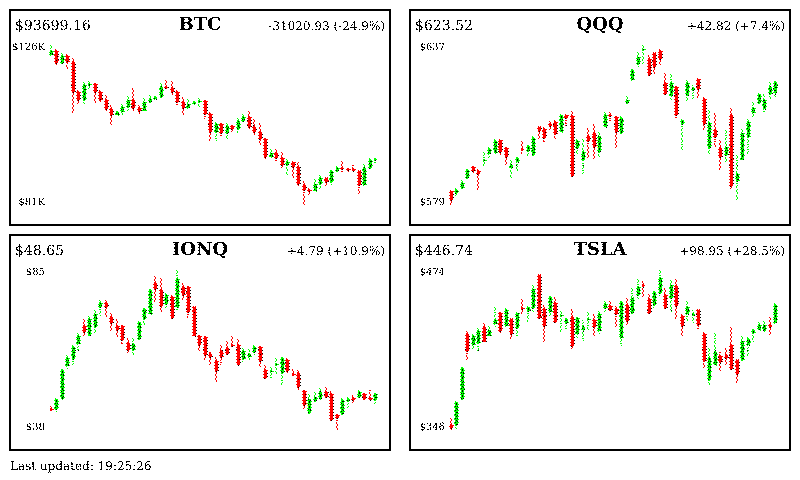
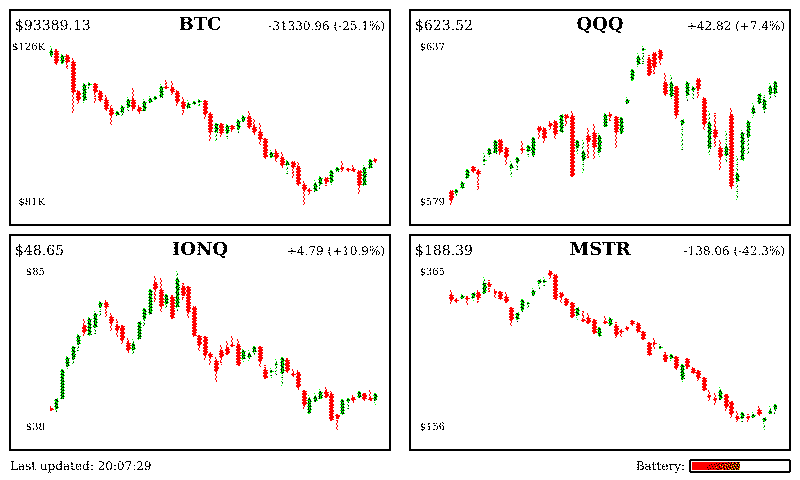
Cleaned up battery on stocks page

diff --git a/server/src/stocks.rs b/server/src/stocks.rs
@@ -188,47 +188,46 @@ pub fn generate_stocks_svg(stocks: &StocksData, battery_pct: Option<u8>) -> Stri
     ));
 
     // Battery bar (if provided)
-    if let Some(pct) = battery_pct {
-        let battery_bar_width = 100;
-        let battery_bar_height = 12;
-        let battery_x = width - 110;
-        let battery_y = footer_y - 10;
-        let battery_inset = 2;
-        let battery_fill_width = (battery_bar_width - battery_inset * 2) * pct as i32 / 100;
+    let pct = battery_pct.unwrap_or(50);
+    let battery_bar_width = 100;
+    let battery_bar_height = 12;
+    let battery_x = width - 110;
+    let battery_y = footer_y - 10;
+    let battery_inset = 2;
+    let battery_fill_width = (battery_bar_width - battery_inset * 2) * pct as i32 / 100;
 
-        // Label
-        svg.push_str(&format!(
-            r#"<text x="{}" y="{}" text-anchor="end" font-size="12" fill="black">Battery:</text>"#,
-            battery_x - 5,
-            footer_y
-        ));
+    // Label
+    svg.push_str(&format!(
+        r#"<text x="{}" y="{}" text-anchor="end" font-size="12" fill="black">Battery:</text>"#,
+        battery_x - 5,
+        footer_y
+    ));
 
-        // Background (container) rectangle
-        svg.push_str(&format!(
+    // Background (container) rectangle
+    svg.push_str(&format!(
             r#"<rect x="{}" y="{}" width="{}" height="{}" fill="white" stroke="black" stroke-width="2" rx="2"/>"#,
             battery_x, battery_y, battery_bar_width, battery_bar_height
         ));
 
-        // ClipPath for battery bar
-        svg.push_str(r#"<clipPath id="batteryClip">"#);
-        svg.push_str(&format!(
-            r#"<rect x="{}" y="{}" width="{}" height="{}" rx="1"/>"#,
-            battery_x + battery_inset,
-            battery_y + battery_inset,
-            battery_fill_width,
-            battery_bar_height - battery_inset * 2
-        ));
-        svg.push_str(r#"</clipPath>"#);
+    // ClipPath for battery bar
+    svg.push_str(r#"<clipPath id="batteryClip">"#);
+    svg.push_str(&format!(
+        r#"<rect x="{}" y="{}" width="{}" height="{}" rx="1"/>"#,
+        battery_x + battery_inset,
+        battery_y + battery_inset,
+        battery_fill_width,
+        battery_bar_height - battery_inset * 2
+    ));
+    svg.push_str(r#"</clipPath>"#);
 
-        // Full-width gradient rect, clipped
-        svg.push_str(&format!(
+    // Full-width gradient rect, clipped
+    svg.push_str(&format!(
             r#"<rect x="{}" y="{}" width="{}" height="{}" fill="url(#batteryGradient)" clip-path="url(#batteryClip)" rx="1"/>"#,
             battery_x + battery_inset,
             battery_y + battery_inset,
             battery_bar_width - battery_inset * 2,
             battery_bar_height - battery_inset * 2
         ));
-    }
 
     svg.push_str("</svg>");
     svg
